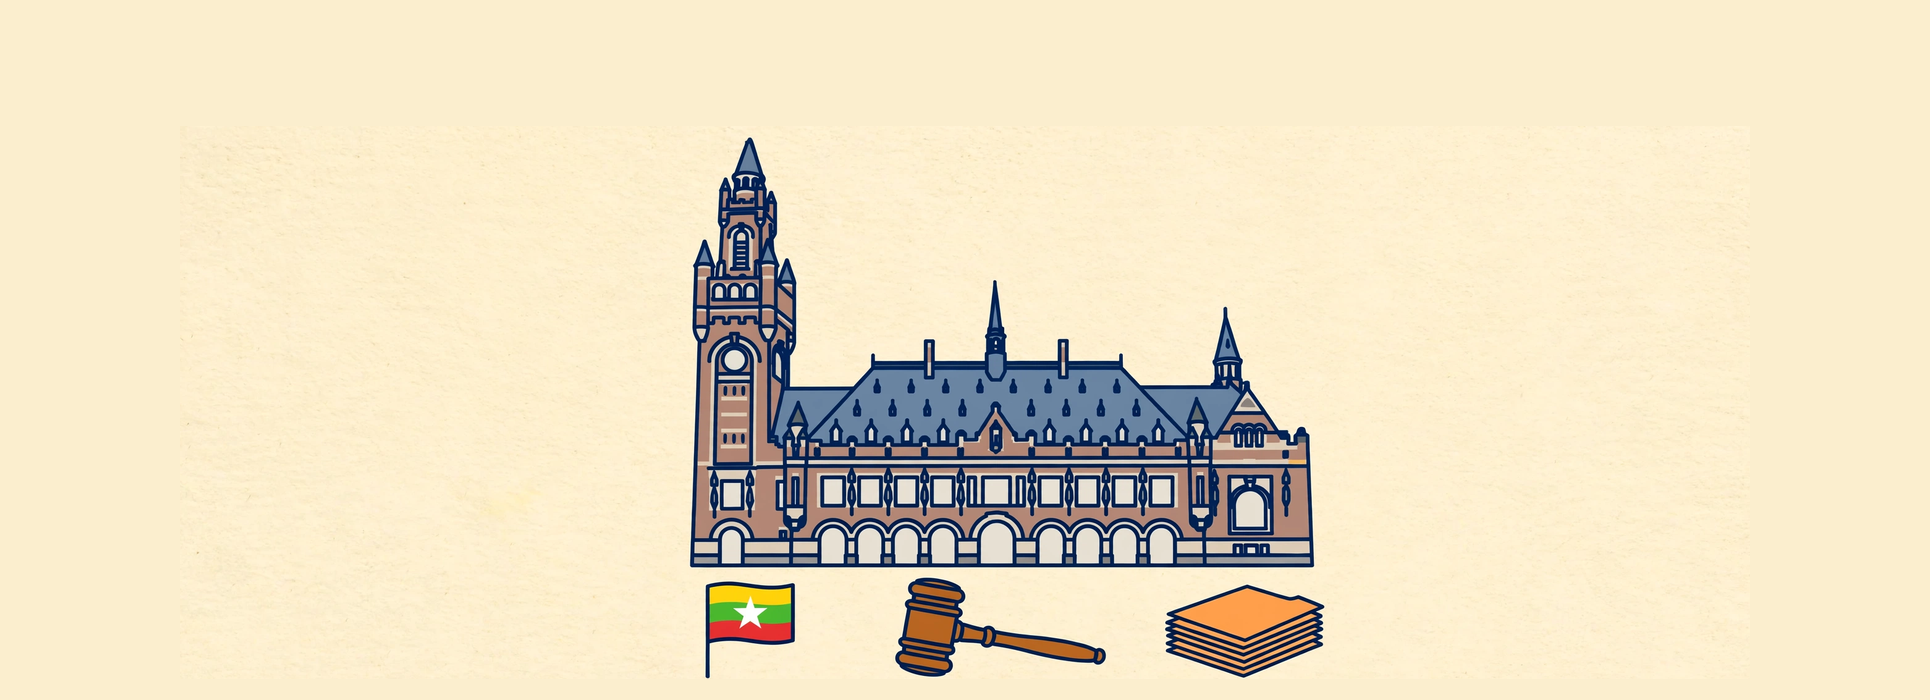
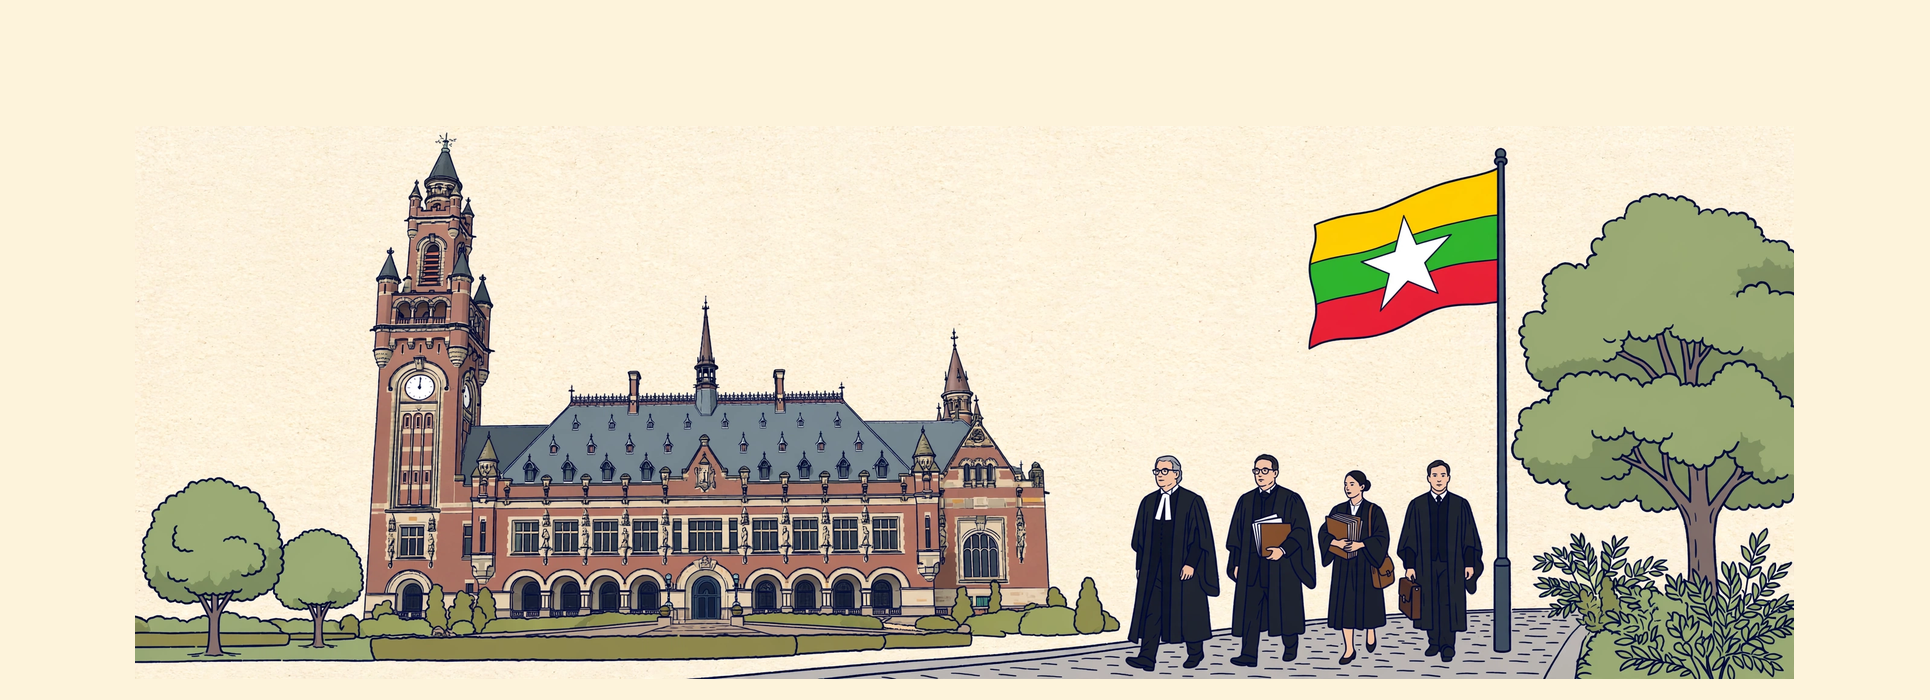
v6 fix: cards 6/8/9 enriched right side with big people, hero 2 VI lowered not zoomed out, map cover-fit

diff --git a/compose_v2.py b/compose_v2.py
@@ -192,7 +192,7 @@ HEROES = [
         "deck": "Gamers enter Vice City as the launch begins on PlayStation 5 and Xbox",
         "strip": "2 · NEW YORK · GAMES",
         "region": "AMERICAS",
-        "focus": 0.5,
+        "focus": 0.57,
     },
     {
         "file": "media-generation-hero-ipo-v2-0-49b14d6a-813e-4e61-a965-6d53f5fc43fb.png",
@@ -391,7 +391,7 @@ DOT_OFFSETS = {
     "Hormuz": (8, 11),
 }
 # Which pins get a name label, and on which side (l/r/a/b).
-PIN_LABELS = {"Gaza": "r", "Wellington": "l", "Tokyo": "a", "Shenzhen": "b"}
+PIN_LABELS = {"Gaza": "r", "Wellington": "l", "Tokyo": "a", "Shenzhen": "l"}  # v6: star near right edge, label below would run off-box
 
 # Strip colour choices per region (first pick is the region colour;
 # the rest are nearby shades so neighbours can always differ).
@@ -512,18 +512,30 @@ def assign_strips(grid):
     return colours
 
 # ---- map ----
+# Map cover-fit (v6, Kevin 20 Nov 06:31 WIB: "lebih baik di crop aja,
+# jangan di buat laut gitu"). One undistorted scale, big enough that the
+# world (lon -180..180, lat 90..-90) covers the whole 260x218 box, so
+# the overflowing edges are CROPPED, not left as ocean gaps. The scale
+# is set by the pins: Washington (-77) .. Shenzhen (114.1) must all stay
+# visible, so s = 1.22 (visible lon -86..123); centre lon 18.55, centre
+# lat 13.15 (pins Berlin 52.5 .. Johannesburg -26.2). The thin sea bands
+# top/bottom are the Arctic + Southern Ocean of the map itself, not an
+# empty margin: land spans ~76% of the box height. A strict cover-fit
+# (s = 218/130 = 1.68) would show only 155 deg of longitude and cut the
+# Washington / Shenzhen pins, so the zoom is eased just enough to keep
+# every pin (task instruction: "sesuaikan zoom ... supaya semua pin
+# tetap terlihat").
+MAP_S = 1.22
+MAP_CLON = 18.55
+MAP_CLAT = 13.15
+
+
 def project(lon, lat, mw, mh):
-    """Equirectangular, UNDISTORTED (v5, Kevin 20 Nov 06:07 WIB: the
-    v4 map was vertically stretched ~2.5x because x and y used
-    different scales). One scale for both axes: s =
-    min((mw-16)/360, mh/130); the 360x130-degree world is centred in
-    the box and the rest stays SEA (a small ocean gap is fine).
-    lon -180..180 across, lat 75..-55 down."""
-    s = min((mw - 16) / 360.0, mh / 130.0)
-    ww, wh = 360.0 * s, 130.0 * s
-    ox, oy = (mw - ww) / 2.0, (mh - wh) / 2.0
-    x = ox + (lon + 180.0) / 360.0 * ww
-    y = oy + (75.0 - lat) / 130.0 * wh
+    """Equirectangular, UNDISTORTED, COVER-FIT (v6). One scale for both
+    axes; the world is centred on (MAP_CLON, MAP_CLAT) and cropped to
+    the box. lon -180..180 across, lat 90..-90 down."""
+    x = mw / 2.0 + (lon - MAP_CLON) * MAP_S
+    y = mh / 2.0 + (MAP_CLAT - lat) * MAP_S
     return (x, y)
 
 
@@ -565,10 +577,11 @@ def build_markers():
 
 
 def draw_map(mw, mh):
-    """The world map at its TRUE aspect ratio (v5: contain-fit, never
-    stretched — Kevin 20 Nov 06:07 WIB). One scale for both axes, the
-    world centred in its box, the rest stays SEA. Pins r 6 with 8pt
-    numbers, dots r 3 kept 9px apart.
+    """The world map at its TRUE aspect ratio, COVER-FIT (v6: never
+    stretched — Kevin 20 Nov 06:07 WIB; never ocean gaps — Kevin 20 Nov
+    06:31 WIB). One scale for both axes, the world cropped to the box.
+    Pins r 6 with 8pt numbers, dots r 3 kept 9px apart; dots whose
+    centre falls outside the box are skipped (logged, same as collisions).
     Returns (image, log)."""
     pins, dots = build_markers()
     im = Image.new("RGB", (mw, mh), SEA)
@@ -620,6 +633,9 @@ def draw_map(mw, mh):
         px, py = project(lon, lat, mw, mh)
         dx, dy = DOT_OFFSETS.get(city, (0, 0))
         qx, qy = px + dx, py + dy
+        if not (4 <= qx <= mw - 4 and 4 <= qy <= mh - 4):
+            skipped.append(city + " (out of view)")
+            continue
         if any(((qx - x) ** 2 + (qy - y) ** 2) ** 0.5 < 9
                for x, y, _r in placed):
             skipped.append(city)

diff --git a/STORIES.md b/STORIES.md
@@ -148,3 +148,28 @@ only one lonely building were given living context: the SARB bank
 tree). The main subjects stay whole with margins, and no new text was
 added inside any picture. Titles, texts, numbers and layout are
 unchanged.
+
+v6 fix (20 Nov 2026, Kevin reviewed the v5 image at display size and
+corrected three things): (1) the living context added in v5 was too
+small to see — in cards 8 and 9 the people were only a few pixels, so
+at a glance they still read as "one building alone". Cards 6, 8 and 9
+were redrawn (a fourth draw for the SARB card, Kevin approved): the
+people are now big enough to read as people at display size, and the
+RIGHT side of each card — which was the empty side — is filled
+(judges and the Myanmar flag in card 6; walkers, the South African
+flag, a tree and the road in card 8; coalition leaders at a table and
+EU flags in card 9). The palace, the bank and the gate stay the
+biggest subjects, whole, with margins. (2) The GTA hero re-crop in v5
+made the "VI" whole but zoomed the whole scene out, so the car and
+the buildings shrank. The v4 framing is restored (same zoom, same
+focus 0.57) and the "VI" billboard itself was moved DOWN inside the
+poster by 105 px instead, so the "VI" is whole with sky above it and
+the scene stays big. (3) The map: Kevin said the contain-fit ocean
+gaps were worse than cropping, so the map is now cover-fit — one
+undistorted scale (1.22) that fills the whole box, with the overflowing
+left/right edges of the world cropped away. Every pin (4–13, the
+Shenzhen star, 14) stays visible; the scale was eased just enough to
+keep them all. Three far-east dots (Tokyo, Australia, Wellington) fall
+outside the cropped window and are skipped; the rest stay in their
+true geographic places. Titles, texts, numbers and layout are
+unchanged.
